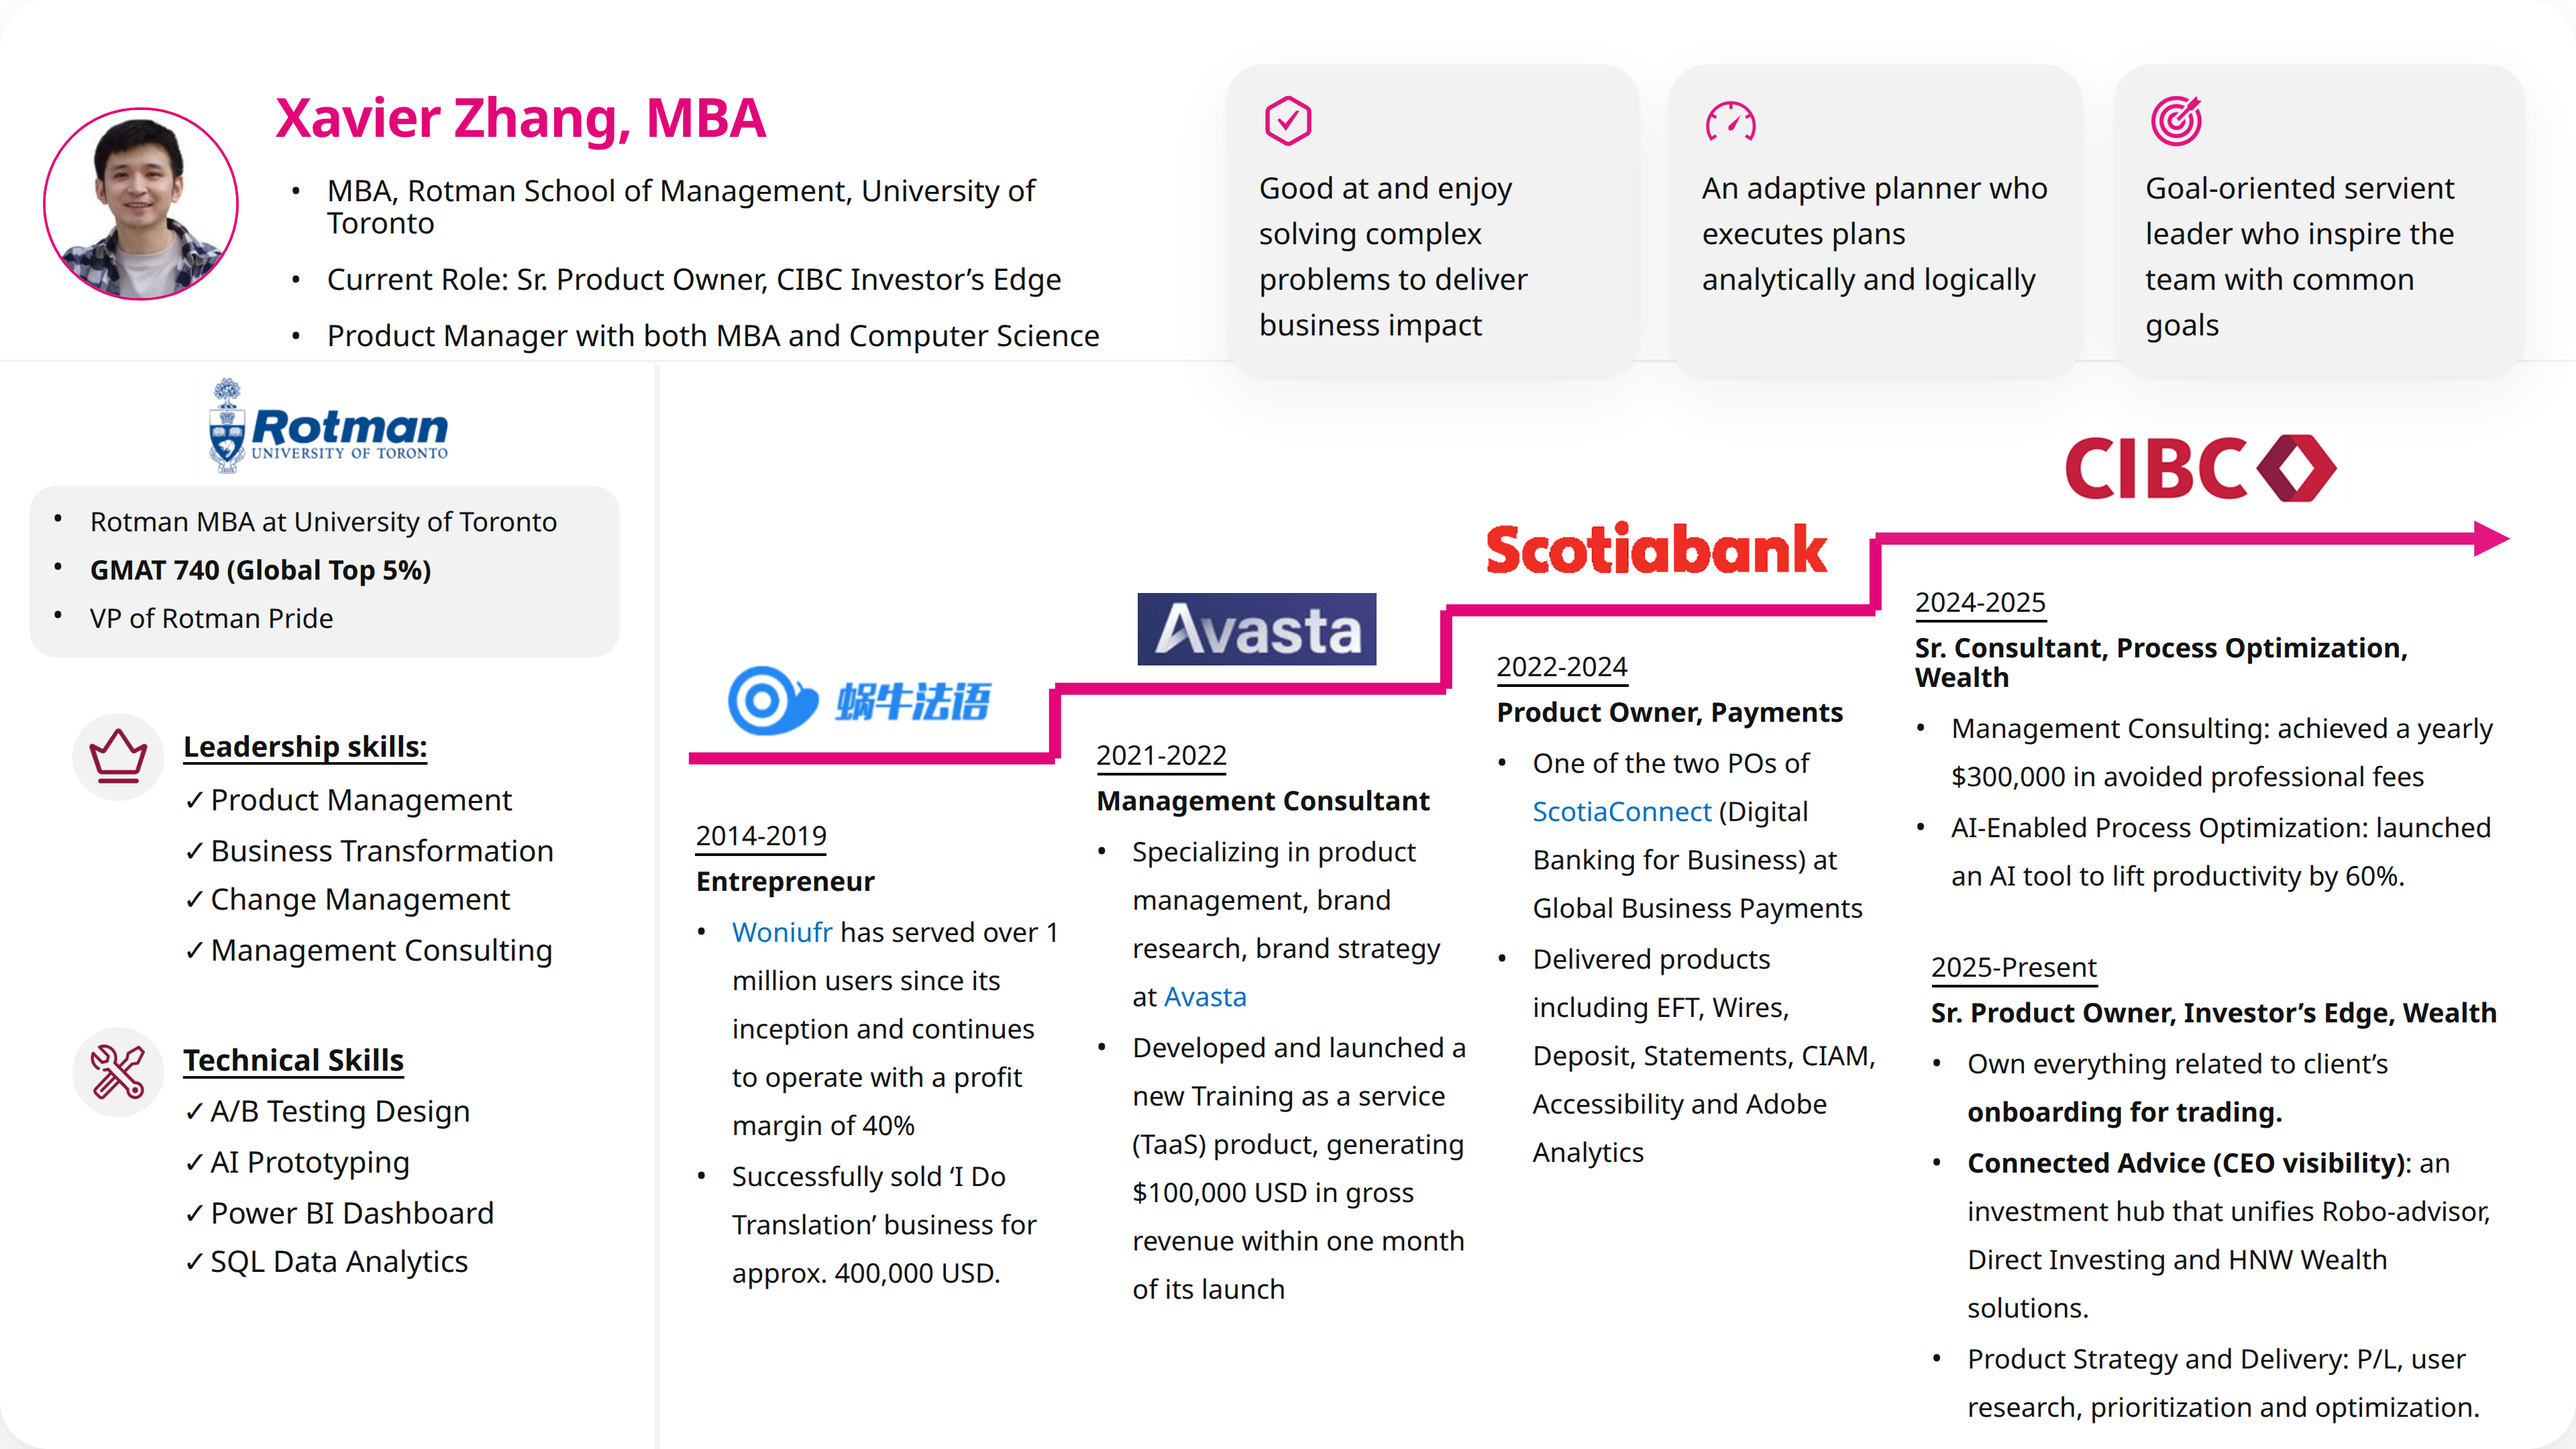
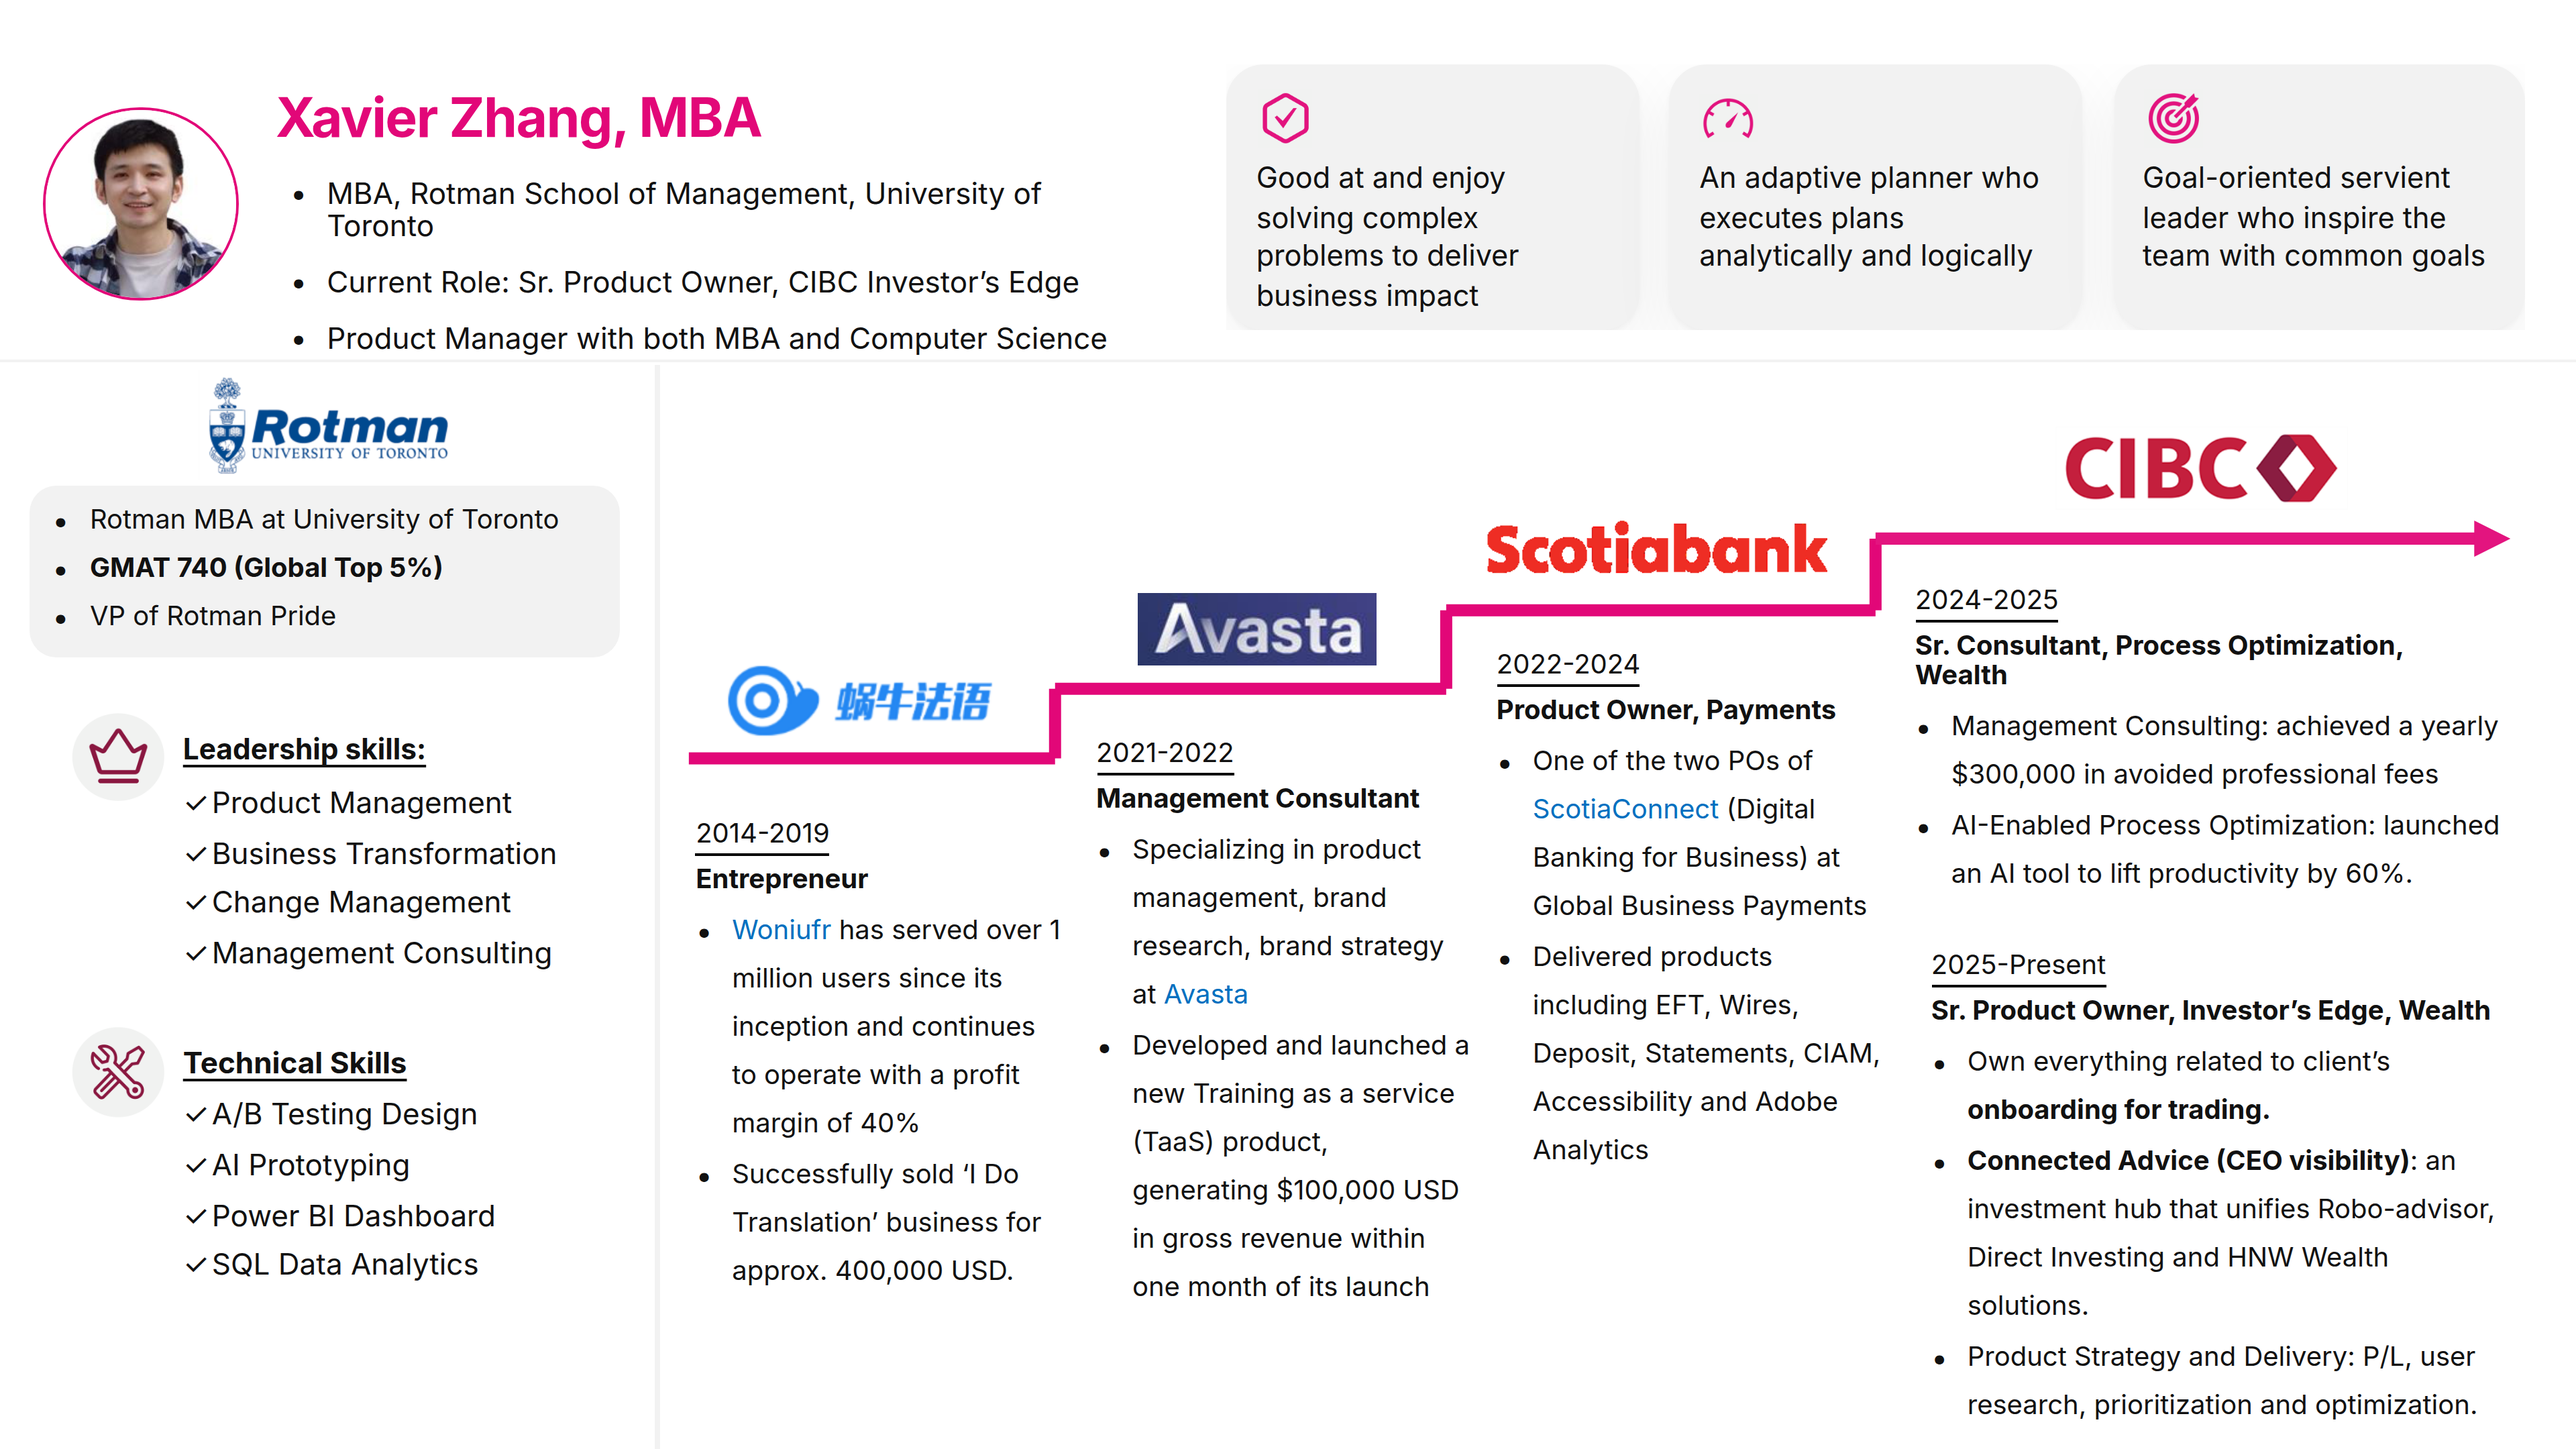
Fix one-pager header card alignment and refresh HD embed.
Keep the top three cards within the designed height so they no longer overlap the horizontal divider, and recapture the About Me card at 4x as a flat lossless PNG.

diff --git a/onepager/index.html b/onepager/index.html
@@ -62,6 +62,7 @@
       width: 960px;
       height: 1.5px;
       background: var(--line);
+      z-index: 0;
     }
 
     .divider-v {
@@ -71,6 +72,7 @@
       width: 1.5px;
       height: 404.19px;
       background: var(--line);
+      z-index: 0;
     }
 
     /* Header */
@@ -138,17 +140,24 @@
       display: grid;
       grid-template-columns: 1fr 1fr 1fr;
       gap: 11.44px;
+      align-items: stretch;
+      overflow: hidden;
+      z-index: 2;
     }
 
-      .card {
+    .card {
       background: var(--panel);
       border-radius: 14px;
       box-shadow: var(--shadow);
-      padding: 10px 12px 10px;
+      padding: 9px 11px 8px;
       display: flex;
       flex-direction: column;
       align-items: flex-start;
-      gap: 6px;
+      gap: 5px;
+      height: 100%;
+      min-height: 0;
+      overflow: hidden;
+      box-sizing: border-box;
     }
 
     .card .card-icon {
@@ -159,8 +168,8 @@
     }
 
     .card p {
-      font-size: 11px;
-      line-height: 1.55;
+      font-size: 10.8px;
+      line-height: 1.38;
       color: var(--ink);
     }
 
